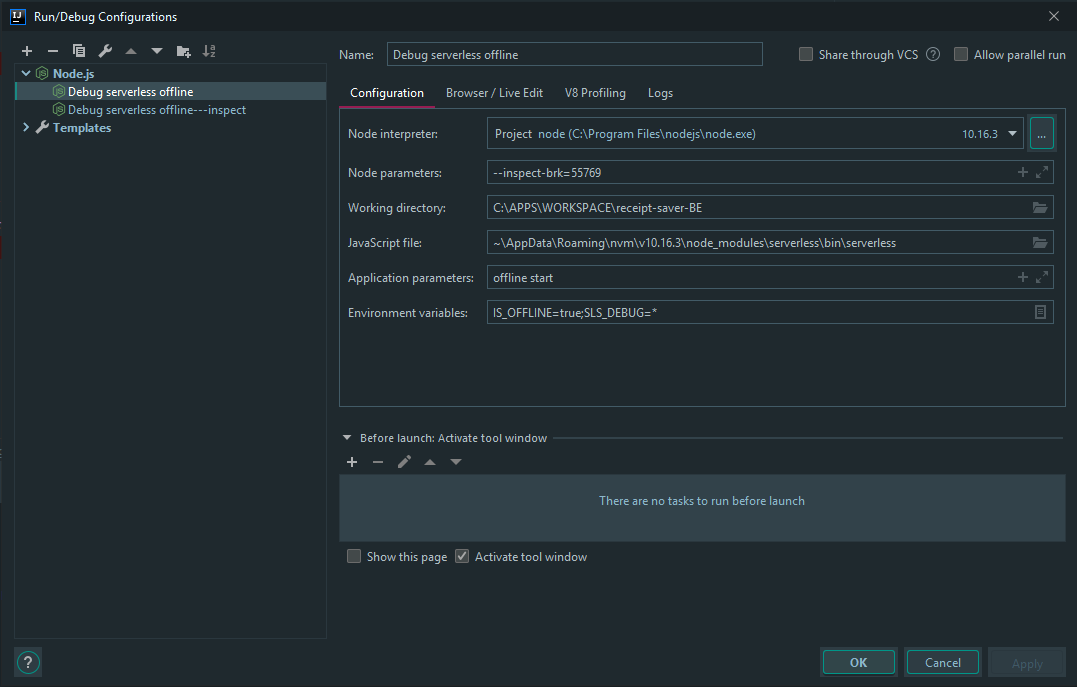
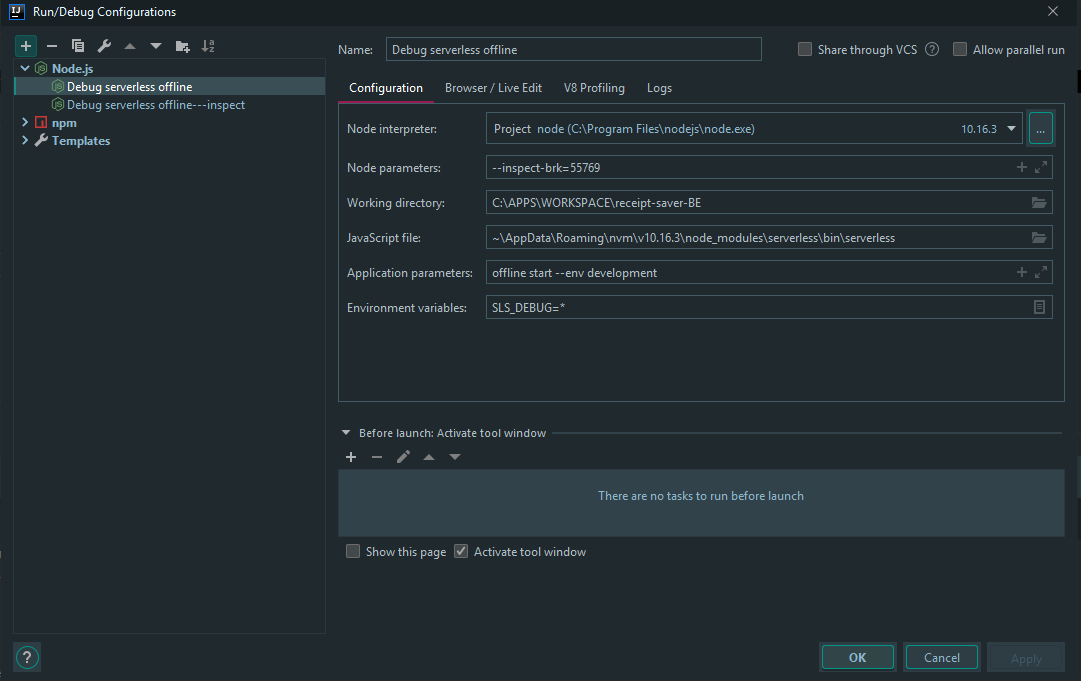
create separate environment files

diff --git a/app.ts b/app.ts
@@ -6,7 +6,8 @@ import { handler } from './config/handlerCreator';
 import { AttachmentFieldName } from "./config/DomainTypes";
 
 const { s3 } = require('./controllers/AwsInstances');
-const { BUCKET_RECEIPTS: bucket } = process.env;
+
+const { BUCKET_RECEIPTS: bucket, CLIENT_URL: ALLOWED_CORS_ORIGIN} = process.env;
 const app = express();
 
 const generateFileName = (file) => `${file.fieldname}-${Date.now()}.${mime.getExtension(file.mimetype)}`;
@@ -14,8 +15,8 @@ const generateFileName = (file) => `${file.fieldname}-${Date.now()}.${mime.getEx
 const upload = multer({
   limits: { fileSize: 10 * 1024 * 1024 },
   storage: multerS3({
-    s3: s3,
-    bucket: bucket,
+    s3,
+    bucket,
     contentType: multerS3.AUTO_CONTENT_TYPE,
     key: function (req, file, cb) {
       cb(null, generateFileName(file))
@@ -23,7 +24,6 @@ const upload = multer({
   })
 });
 
-const CLIENT_URL = process.env.CLIENT_URL || '*';
 const receipt = require('./controllers/receipt');
 
 // For Handling unhandled promise rejection
@@ -41,7 +41,7 @@ app.use(express.urlencoded({ extended: false }));
 
 // Cors
 app.use((req, res, next) => {
-  res.header('Access-Control-Allow-Origin', CLIENT_URL);
+  res.header('Access-Control-Allow-Origin', ALLOWED_CORS_ORIGIN || '*');
   res.header('Access-Control-Allow-Headers', 'Origin, X-Requested-With, Content-Type, Accept');
   res.header('Access-Control-Allow-Methods', 'GET, POST, PUT, DELETE, OPTIONS');
   next();

diff --git a/controllers/receipt.ts b/controllers/receipt.ts
@@ -64,7 +64,9 @@ const edit = async (req: RequestWithFiles): ReceiptWithImagesResponse => {
   try {
     const receiptFromDb = await db.getReceiptFromDB(receiptFromRequest.id);
     const imagesToRemove: ObjectIdentifierList = receiptFromDb.images.filter(dbId => !receiptFromRequest.images.includes(dbId)).map(Key => ({ Key }));
-    await storage.deleteImages(imagesToRemove);
+    if (imagesToRemove.length) {
+      await storage.deleteImages(imagesToRemove);
+    }
     await db.updateReceiptInDB(newReceipt);
     const images = await storage.getImagesData(newReceipt.images);
     return { body: { receipt: newReceipt, images } };
@@ -81,7 +83,7 @@ const deleteById = async ({ params: { id } }: Request): Promise<ResponseData & {
     if (imagesToRemove.length) {
       await storage.deleteImages(imagesToRemove);
     }
-    await db.deleteReceiptFromDB;
+    await db.deleteReceiptFromDB(id);
     return { body: { success: true } };
   } catch (e) {
     console.error(`Error deleting, id ${id}`, e);

diff --git a/controllers/AwsInstances.ts b/controllers/AwsInstances.ts
@@ -1,13 +1,16 @@
 const AWS = require('aws-sdk');
 import { DocumentClient } from 'aws-sdk/lib/dynamodb/document_client';
+const { ACCESS_KEY_ID, SECRET_ACCESS_KEY, NODE_ENV } = process.env;
 
-const dynamoDb: DocumentClient = process.env.IS_OFFLINE
-  ? new AWS.DynamoDB.DocumentClient({
-      region: 'localhost',
-      endpoint: 'http://localhost:8000'
-    })
-  : new AWS.DynamoDB.DocumentClient();
+console.log('dyno', process.env);
+const dynamoDb: DocumentClient =
+  NODE_ENV === 'development'
+    ? new AWS.DynamoDB.DocumentClient({
+        region: 'localhost',
+        endpoint: 'http://localhost:8000'
+      })
+    : new AWS.DynamoDB.DocumentClient();
 
-const s3 = new AWS.S3();
+const s3 = new AWS.S3({ accessKeyId: ACCESS_KEY_ID, secretAccessKey: SECRET_ACCESS_KEY });
 
 module.exports = { dynamoDb, s3 };

diff --git a/app.local.ts b/app.local.ts
@@ -1,8 +1,7 @@
 const app = require('./app');
-import { CLIENT_URL, SERVER_PORT } from './default_env.json';
+import { SERVER_PORT } from './default_env.json';
+const { CLIENT_URL } = process.env;
 
 app.listen(SERVER_PORT, () => {
-  console.log(
-    `server: listening on port ${SERVER_PORT}, Front-end cors accessible with port ${CLIENT_URL}"`
-  );
+  console.log(`server: listening on port ${SERVER_PORT}, Front-end cors accessible with port ${CLIENT_URL}"`);
 });

diff --git a/readme.md b/readme.md
@@ -1,6 +1,5 @@
 ## Receipt saving application
 
-
 #### Development setup
 **Setup**
 * `npm install`
@@ -8,10 +7,29 @@
 * `serverless offline start`
 * `serverless dynamodb migrate` (this imports schema)
 
-**Run service offline**
+**Run service offline for specific environment**
 
-`serverless offline start`
+`serverless offline start --env development`
 
+#### Environment setup: 
+create environment dotenv files, as showed below:
+
+ **".env.development"**
+```
+CLIENT_URL=http://localhost:3000
+NODE_ENV=development
+STAGE=dev
+ACCESS_KEY_ID=XXXXXXXXXXXXXXXXXXX
+SECRET_ACCESS_KEY=XXXXXXXXXXXXXXXXXXX
+```
+**".env.production"**
+```
+CLIENT_URL=https://master.YourDeployedFrontEndURL.amplifyapp.com
+NODE_ENV=production
+STAGE=prod
+ACCESS_KEY_ID=XXXXXXXXXXXXXXXXXXX
+SECRET_ACCESS_KEY=XXXXXXXXXXXXXXXXXXX
+```
 #### Database tables: 
 ![](./info/db-tables.png)
 
@@ -20,4 +38,4 @@
 set env variable with your serverless.js location:
 * `setx slsloc "C:\Users\YourUserName\AppData\Roaming\nvm\v10.16.3\node_modules\serverless\bin\serverless"`
 * `node --inspect %slsloc% offline start`
-2) on IntellijIdea look at screenshots in `./info` folder
+2) on IntellijIdea look at screenshots in `./info` folder, dont't forget to press **Debug** (not Run)
